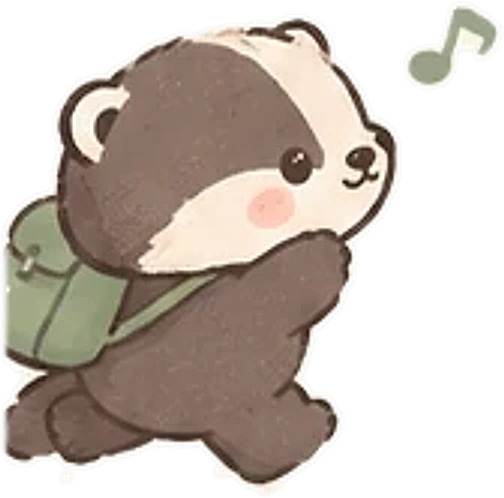
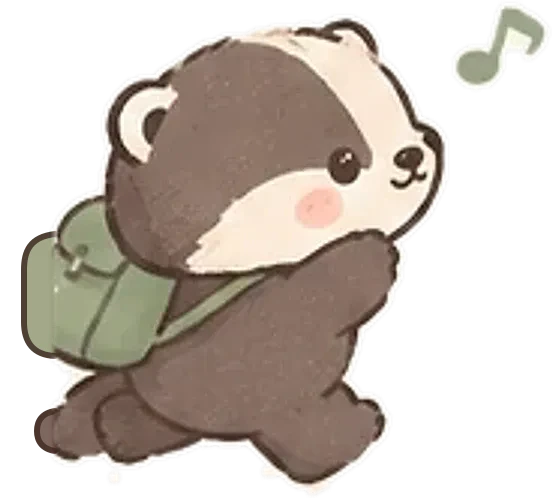
로딩 화면 오소리 가방 잘림 수정
- 걷는 오소리 원본 그림에서 잘려 있던 가방 왼쪽과 뒷다리 끝을 이어 그림
- 로딩 화면 그림을 미리 받아 두어 처음 이동할 때도 바로 보이게 함

Changed region(s): [[0.0, 0.0301, 0.8333, 0.994], [0.8036, 0.0, 0.9821, 0.1807]]

diff --git a/components/NavLoading.tsx b/components/NavLoading.tsx
@@ -61,7 +61,9 @@ export function NavLoading() {
 
   useEffect(finish, [pathname, search]);
 
-  if (!visible) return null;
+  // 로딩 화면은 잠깐만 뜨므로 그림을 미리 받아 둔다
+  // eslint-disable-next-line @next/next/no-img-element
+  if (!visible) return <img src="/osori/move.webp" alt="" aria-hidden className="hidden" />;
 
   return (
     <div role="status" aria-live="polite" className="fixed inset-0 z-[100] flex items-center justify-center bg-ink/20">
@@ -78,7 +80,7 @@ export function NavLoading() {
         </svg>
         <div className="absolute top-[106px] left-1/2 -ml-[52px]">
           <div className="ok-walk">
-            <Osori mood="move" size={104} />
+            <Osori mood="move" size={104} eager />
           </div>
         </div>
       </div>

diff --git a/components/Osori.tsx b/components/Osori.tsx
@@ -5,10 +5,11 @@ import type { Mood } from "@/lib/signs";
  * 오소리 표정 (design-system.md §7)
  * 이미 작은 투명 WebP 라서 Next 이미지 최적화를 끈다 — 최적화기가 JPEG로 바꾸며 투명 배경을 망가뜨린다
  */
-export function Osori({ mood, size = 56, alt = "", className = "" }: { mood: Mood; size?: number; alt?: string; className?: string }) {
+export function Osori({ mood, size = 56, alt = "", className = "", eager = false }: { mood: Mood; size?: number; alt?: string; className?: string; eager?: boolean }) {
   return (
     <Image
       unoptimized
+      loading={eager ? "eager" : undefined}
       src={`/osori/${mood}.webp`}
       alt={alt}
       width={size}
